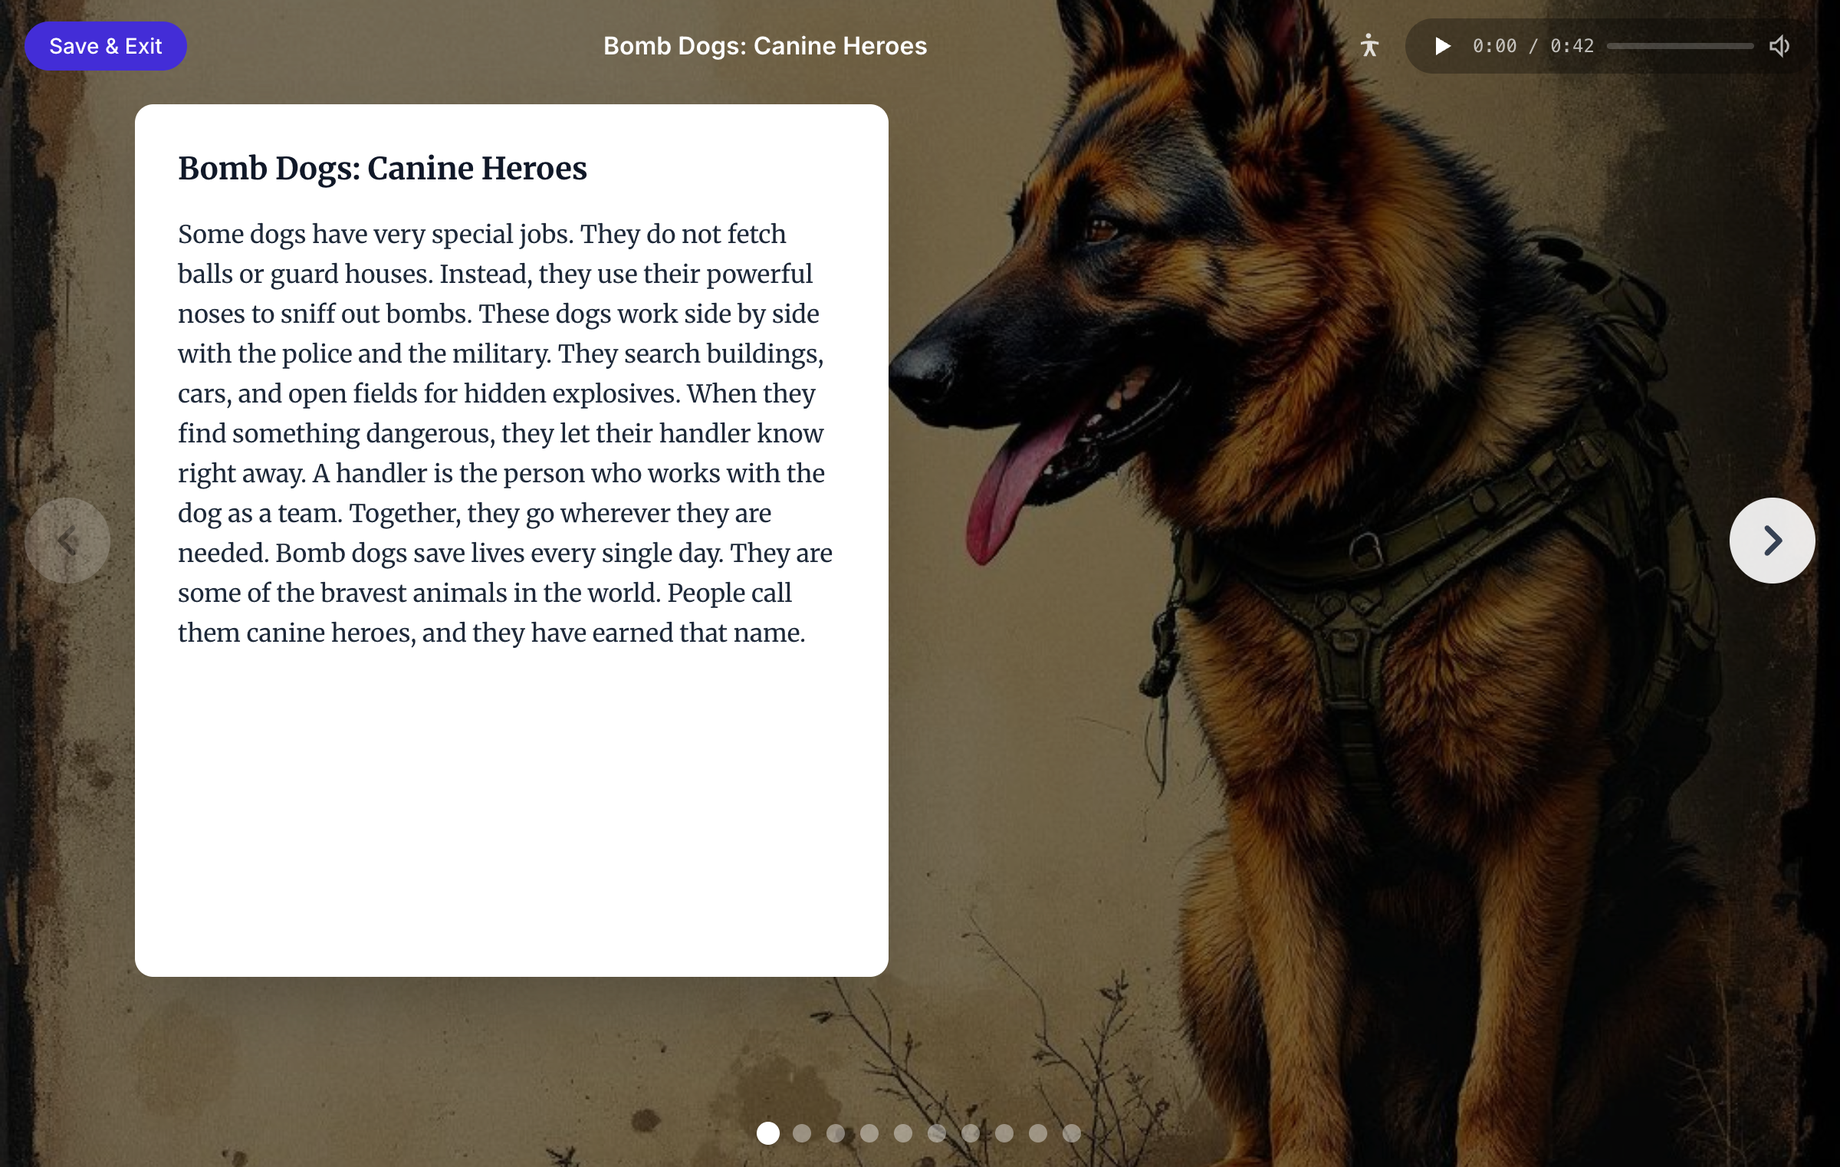
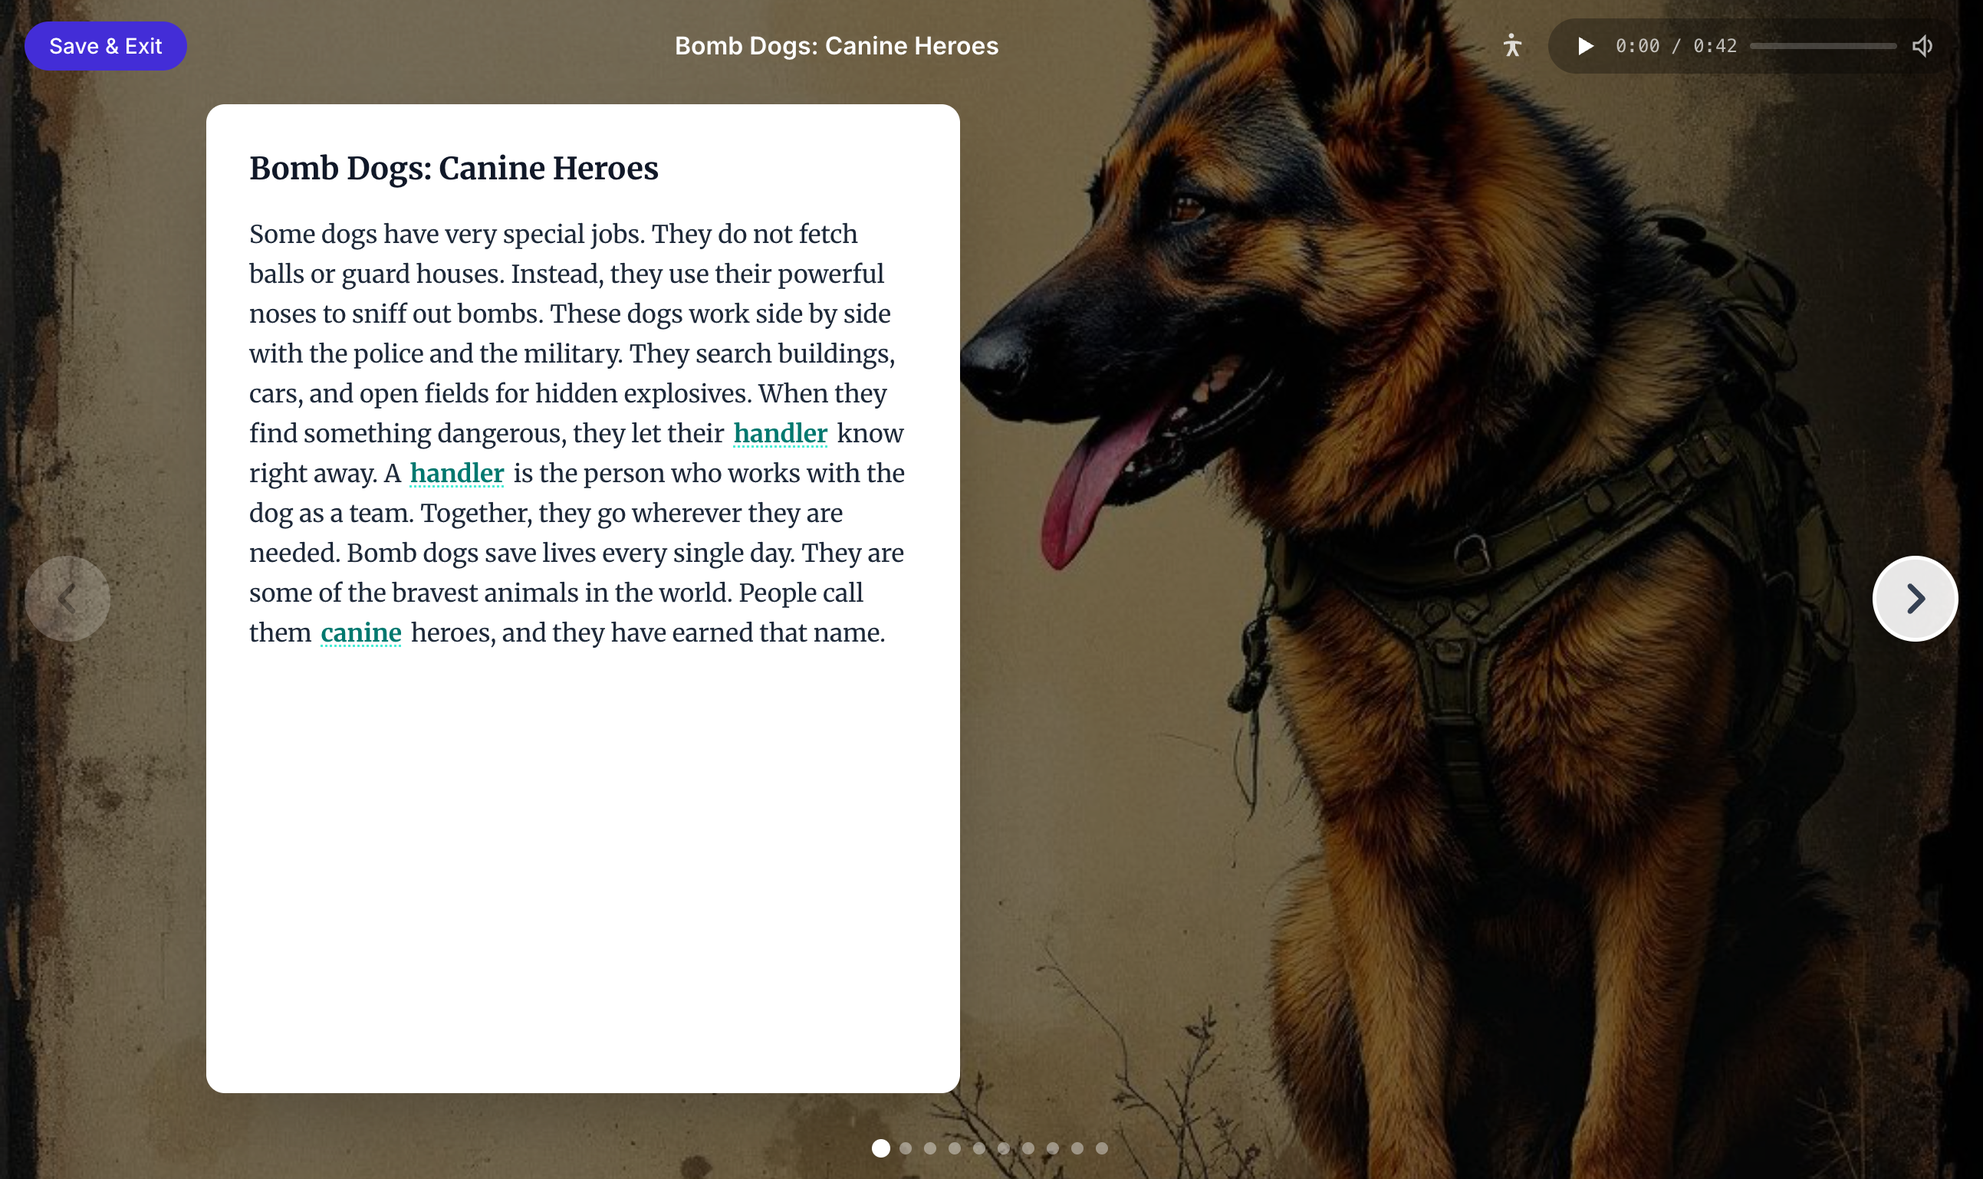
IR fidelity: freeze/unfreeze, visual alignment, feedback timing
P0 Assessment UX:
- Freeze/unfreeze slide progression: students can't skip past incomplete checkpoints
- Forward nav (arrows + dots) disabled past freeze point
- Feedback timing aligned to original: 5s loader on first wrong, 3s on final

P0 Highlight:
- Eraser tool added (39x39 square button with icon)
- Eraser mode only removes highlights, never adds
- Tool-based selection model (select color/eraser → apply)

P1 Visual alignment:
- Panel borders: 6px solid border-black/30 on both panels
- Right panel bg: #f7f9f9 (light gray matching original)
- Question header bar: #eeeeee with shadow separator
- Submit buttons: blue gradient matching original 3D style
- Highlight tools: 39x39 square color blocks (no text labels)
- Nav arrows: bg-black/30 with white border + shadow
- Pagination dots: 9x9px, black active, #666 inactive, green completed
- Save & Exit: blue gradient (green when all done)

Also adds comprehensive gap analysis document (docs/ir-gap-analysis.md)
and reference screenshots from original Savvas IR.

diff --git a/components/interactive/InteractiveShell.tsx b/components/interactive/InteractiveShell.tsx
@@ -85,6 +85,20 @@ export default function InteractiveShell({ passage, onExit }: Props) {
   );
   const allDone = allCheckpointIndices.length > 0 && allCheckpointIndices.every((i) => completedCheckpoints.has(i));
 
+  // Freeze/unfreeze: compute the furthest slide the student can navigate to.
+  // Students can navigate TO the first incomplete checkpoint but not past it.
+  // Backward navigation is always allowed. Forward is blocked past freeze point.
+  const freezePoint = useMemo(() => {
+    for (let i = 0; i < passage.slides.length; i++) {
+      const s = passage.slides[i];
+      const hasCheckpoint = s.type === "checkpoint" || s.checkpoint;
+      if (hasCheckpoint && !completedCheckpoints.has(i)) {
+        return i;
+      }
+    }
+    return passage.slides.length - 1;
+  }, [passage.slides, completedCheckpoints]);
+
   // For checkpoint slides with no text, gather text from preceding reading slides
   const getPrecedingText = useCallback(
     (index: number): string => {
@@ -104,11 +118,13 @@ export default function InteractiveShell({ passage, onExit }: Props) {
   const goToSlide = useCallback(
     (index: number) => {
       if (index < 0 || index >= totalSlides) return;
+      // Freeze: block forward navigation past the first incomplete checkpoint
+      if (index > freezePoint) return;
       setDirection(index > currentSlide ? 1 : -1);
       setShowCheckpoint(false);
       setCurrentSlide(index);
     },
-    [currentSlide, totalSlides]
+    [currentSlide, totalSlides, freezePoint]
   );
 
   const handleCheckpointComplete = useCallback(
@@ -217,10 +233,10 @@ export default function InteractiveShell({ passage, onExit }: Props) {
           <ChevronLeft />
         </button>
 
-        {/* Right arrow */}
+        {/* Right arrow — disabled when frozen or at end */}
         <button
           onClick={() => goToSlide(currentSlide + 1)}
-          disabled={currentSlide === totalSlides - 1}
+          disabled={currentSlide === totalSlides - 1 || currentSlide >= freezePoint}
           className="absolute right-1 sm:right-2 md:right-4 z-20 w-10 h-10 sm:w-12 sm:h-12 md:w-14 md:h-14 flex items-center justify-center rounded-full bg-black/30 text-white border-[2.5px] border-white shadow-[0_0_15px_rgba(0,0,0,0.3)] disabled:opacity-20 hover:bg-black/40 transition-colors"
         >
           <ChevronRight />
@@ -273,20 +289,24 @@ export default function InteractiveShell({ passage, onExit }: Props) {
         </AnimatePresence>
       </div>
 
-      {/* Dot navigation */}
+      {/* Dot navigation — frozen dots past freeze point are dimmed */}
       <div className="absolute bottom-4 left-0 right-0 z-10 flex justify-center gap-2">
         {passage.slides.map((s, i) => {
           const isCheckpoint = s.type === "checkpoint" || s.checkpoint;
           const isCompleted = isCheckpoint && completedCheckpoints.has(i);
+          const isFrozen = i > freezePoint;
           return (
             <button
               key={i}
               onClick={() => goToSlide(i)}
+              disabled={isFrozen}
               className={`w-[9px] h-[9px] rounded-full transition-all ${
                 i === currentSlide
                   ? "bg-black shadow-[0_3px_2px_0_rgba(0,0,0,0.3)]"
                   : isCompleted
                   ? "bg-green-400"
+                  : isFrozen
+                  ? "bg-[#444] opacity-30 cursor-not-allowed"
                   : "bg-[#666] hover:bg-[#888]"
               }`}
             />

diff --git a/components/interactive/HighlightCheckpoint.tsx b/components/interactive/HighlightCheckpoint.tsx
@@ -9,8 +9,9 @@ const HIGHLIGHT_FIRST_TRIAL_SCORE = 2.0;
 const HIGHLIGHT_SECOND_TRIAL_SCORE = 1.5;
 const MAX_ATTEMPTS = 2;
 
-// Timing delays from original ClassView
-const INCORRECT_DELAY_MS = 2000;
+// Timing delays from original ClassView source (assignments.js)
+// Highlight uses 5s loader on incorrect, 3s on final incorrect
+const INCORRECT_DELAY_MS = 5000;
 const INCORRECT_FINAL_DELAY_MS = 3000;
 
 // Highlight colors matching the reference app

diff --git a/components/interactive/CheckpointSlide.tsx b/components/interactive/CheckpointSlide.tsx
@@ -20,8 +20,9 @@ interface Props {
 const MAX_SCORE = 2.0;
 const MAX_ATTEMPTS = 2;
 
-// Timing delays from original ClassView
-const INCORRECT_DELAY_MS = 2000;
+// Timing delays from original ClassView source (assignments.js)
+// DnD uses 5s loader on incorrect, 3s on final incorrect
+const INCORRECT_DELAY_MS = 5000;
 const INCORRECT_FINAL_DELAY_MS = 3000;
 
 type DndState =

diff --git a/docs/ir-gap-analysis.md b/docs/ir-gap-analysis.md
@@ -1,0 +1,237 @@
+# Interactive Reader: Gap Analysis (Original vs. Replica)
+
+**Date:** 2026-03-01
+**Reference:** Savvas I-LIT ClassView (production.classviewapi.com)
+**Replica:** ilit.vercel.app
+
+---
+
+## Executive Summary
+
+The replica captures the core structure well — two-panel layout, slide navigation, checkpoint types, scoring logic. The biggest gaps are in **visual fidelity** (colors, borders, panel sizing), **assessment UX** (interaction feedback, timing, animations), and **missing features** (freeze/unfreeze progression, audio files, eraser tool).
+
+### Priority Tiers
+
+| Priority | Category | Count |
+|----------|----------|-------|
+| P0 - Critical | Assessment UX & logic | 6 |
+| P1 - High | Visual fidelity | 8 |
+| P2 - Medium | Features & polish | 5 |
+| P3 - Low | Nice-to-have | 4 |
+
+---
+
+## P0 — Critical: Assessment UX & Logic
+
+These affect correctness of the learning experience.
+
+### 1. Freeze/Unfreeze Slide Progression
+**Original:** Students cannot swipe past the current checkpoint until it's completed. A "freeze point" prevents skipping ahead. Previously completed slides can be revisited.
+**Replica:** All slides are freely navigable via dots and arrows. Students can skip every checkpoint and jump to the summary.
+**Impact:** Defeats the purpose of comprehension checks. Students can bypass all assessment.
+**Fix:** Track highest-unlocked slide index. Disable forward navigation (arrows + dots) past the freeze point. Unfreeze on checkpoint completion.
+
+### 2. Highlight Checkpoint: Missing Eraser Tool
+**Original:** Three tools — Yellow marker, Red marker, Eraser. Eraser lets students undo highlights by clicking highlighted text. Tools are 39x39px buttons with active/disabled states.
+**Replica:** Only Yellow and Red marker buttons. No eraser. Students can't undo a highlight except by re-clicking (toggle behavior, which differs from original).
+**Impact:** Missing core interaction. Original uses explicit eraser mode, not toggle.
+**Fix:** Add eraser button. When eraser is active, clicking a highlighted sentence removes the highlight. Match original tool button sizing (39x39px).
+
+### 3. Highlight: Selection Model (Click vs. Tap-to-select)
+**Original:** Each word/sentence is wrapped in `<span>` with sequential class. Tap to highlight with active color. Must select marker tool first. Eraser mode for removal.
+**Replica:** Sentence-level click toggles highlight. Color is applied from active highlighter. No explicit select-then-apply flow.
+**Impact:** Functional but different interaction model. Original is tool-based (select tool, then apply). Replica is direct-toggle.
+**Fix:** Align to tool-based model: select color tool → click sentence to apply → select eraser → click to remove.
+
+### 4. Drag-and-Drop: Actual Drag Interaction
+**Original:** jQuery UI Draggable/Droppable. Student physically drags word tiles from bank to drop zone. Clone helper, snap-back on invalid drop. Drag state: dark teal bg (#35484C), white text.
+**Replica:** Click-to-place model. Student clicks a word in the bank, it fills the drop zone. No actual dragging.
+**Impact:** Fundamentally different interaction. Original builds motor skills and spatial understanding. Click-to-place is simpler but not equivalent.
+**Fix:** Implement actual drag-and-drop with HTML5 Drag API or pointer events. Keep click-to-place as touch fallback. Show drag ghost with dark teal styling.
+
+### 5. Checkpoint Feedback: Timing & Overlay
+**Original:** On wrong answer: 5-second dark overlay loader, then retry prompt. On 2nd wrong: 3-second overlay, then reveal correct answer. Visual overlay prevents interaction during delay.
+**Replica:** Has delays (2000ms first wrong, 3000ms second wrong) with black/30 overlay. Close but timing differs (5s vs 2s for first wrong).
+**Impact:** Feedback pacing differs. Original gives more time for reflection.
+**Fix:** Align timings: 5000ms for first wrong, 3000ms for second wrong. Match overlay opacity.
+
+### 6. "Reading Checkpoint" Button Behavior
+**Original:** Button appears at bottom of left panel on reading slides. Clicking it: (1) hides the button, (2) animates right panel in (opacity 0→1, left -200px→0), (3) reveals the checkpoint interaction. Button uses blue gradient (`#1c8ed5` → `#025e97`).
+**Replica:** Button appears but is styled as indigo pill (`bg-indigo-700`). Click sets `showCheckpoint=true` which swaps the entire view to a CheckpointSlide component. No panel slide-in animation — it's a full slide replacement.
+**Impact:** Different mental model. Original keeps reading text visible on left while checkpoint slides in on right. Replica replaces the reading slide entirely with a checkpoint slide.
+**Fix:** On reading slides with attached checkpoints, keep the reading text visible and animate the checkpoint panel in from the right, overlapping or adjacent to the text panel. This is a significant architectural change.
+
+---
+
+## P1 — High: Visual Fidelity
+
+These are visually noticeable differences that affect perceived quality.
+
+### 7. Panel Borders
+**Original:** 6px solid `rgba(0,0,0,0.3)` border on both panels. Right panel has `border-radius: 0 12px 12px 0` (right side rounded only). Left panel is 12px all corners.
+**Replica:** No visible borders on panels. Uses `shadow-2xl` and `rounded-xl` for depth. Looks modern but doesn't match original's card-with-border feel.
+**Fix:** Add 6px solid semi-transparent dark border to both panels. Match border-radius values.
+
+### 8. Panel Background Colors
+**Original:** Left panel: white `#fff`. Right panel: light gray `#f7f9f9`.
+**Replica:** Both panels appear white. Right panel has slight gray in some states but not consistently.
+**Fix:** Set right panel background to `#f7f9f9`.
+
+### 9. Panel Dimensions
+**Original:** Left: 550×515px. Right: 400×462px. Container: 1000px centered. Right panel has -12px left margin (overlaps left border).
+**Replica:** Responsive with `md:max-w-[48%]`. Panels are sized by content/flex, not fixed dimensions.
+**Impact:** Different proportions. Original has specific pixel sizing.
+**Fix:** For desktop, use fixed widths closer to original (550px left, 400px right) with responsive fallback for smaller screens.
+
+### 10. Top Bar / Header
+**Original:** Dark semi-transparent bar (~52px). "Save & Exit" as dark pill button on left. Title centered. Accessibility icon + audio player on right. Audio has HTML5 `<audio>` element with scrubber, time display, volume.
+**Replica:** Similar layout but uses indigo/teal colors instead of dark. Audio uses browser SpeechSynthesis (TTS) instead of real audio files. Time display shows estimated TTS duration.
+**Impact:** TTS sounds robotic vs. real recorded audio. Visual styling differs.
+**Fix:**
+- Style: Match dark semi-transparent header bar
+- Audio: Would need actual audio files (not available from CDN). TTS is acceptable fallback but should be noted.
+
+### 11. Navigation Arrows
+**Original:** White circles with border: `2.5px solid #fff`, `box-shadow: 0 0 15px #000`, `background: rgba(0,0,0,0.3)`, 45×45px. Dimmed state: `opacity: 0.5`.
+**Replica:** White/90 background, shadow, slightly different sizing. Look similar but not matching.
+**Fix:** Match exact CSS: border 2.5px white, box-shadow 15px black spread, rgba(0,0,0,0.3) background, 45px diameter.
+
+### 12. Pagination Dots
+**Original:** Small circles (9×9px), dark bg. Active: black with shadow. Inactive: gray #666. Border-radius 10px.
+**Replica:** Larger dots with different colors: white (current, scale 150%), green (completed), white/40 (unviewed).
+**Impact:** Different visual language. Our green-for-completed is arguably better UX but doesn't match original.
+**Fix:** Align dot sizing and colors. Keep green-for-completed as an enhancement.
+
+### 13. Button Styling (Blue Gradient)
+**Original:** 3D gradient button: `linear-gradient(to bottom, #1c8ed5 0%, #79bde6 3%, #1c8ed5 5%, #1c8ed5 95%, #025e97 100%)` with inset shadows. Green variant for complete: `#48c05d → #007b14`. Gray for disabled.
+**Replica:** Flat `bg-indigo-700` pills. Modern but doesn't match skeuomorphic original.
+**Fix:** Create shared button component with 3D gradient matching original. Apply to "Reading Checkpoint", "Save and Continue", "Submit Summary", "Get Feedback" buttons.
+
+### 14. Highlight Tool Colors
+**Original:** Yellow: `#f4df76`. Red: `#f47676`. Applied to text: yellow `#ffff33`, red `#f5a9a9`. Tool buttons: 39×39px squares.
+**Replica:** Yellow: `#f4df76` (matches). Red: `#f47676` (matches). Tool button styling differs (rounded with labels vs. square color blocks).
+**Fix:** Match tool button appearance — 39×39px square color blocks without text labels, with active border state.
+
+---
+
+## P2 — Medium: Features & Polish
+
+### 15. Slide Transition Animation
+**Original:** Custom Swipe.js parallax engine. 1200ms transition. Horizontal slide with parallax depth effect on background images.
+**Replica:** 3D slit rotate effect (rotateY 90°/-90°) with 1.2s duration. Perspective-based 3D flip.
+**Impact:** Different visual feel. Replica's 3D flip is more dramatic. Original is horizontal parallax slide.
+**Fix:** Consider switching to horizontal slide transition to match original. The 3D flip is flashy but not faithful.
+
+### 16. Background Images Per Slide
+**Original:** Each slide can have a different background image. Images are topic-relevant photography (dogs, military, training scenes). Full-bleed with textured overlay.
+**Replica:** Uses a passage-level background image with per-slide brightness filter. Our bg images are AI-generated.
+**Impact:** Visual quality differs. Original has curated stock photography per slide.
+**Fix:** Accept AI-generated images as our content is different. Ensure per-slide bg switching works.
+
+### 17. Summary: PKT API Feedback vs. Local Algorithm
+**Original:** Submits to PKT API for automated scoring. Returns 13-segment color bar (red→green), sub-scores for redundancy, irrelevancy, copying, spelling.
+**Replica:** Local keyword-matching algorithm. Checks for key concepts (substring match). Three-tier feedback (great/good/needs more).
+**Impact:** Our feedback is much simpler. Original's API-based scoring is more sophisticated.
+**Fix:** Our local algorithm is acceptable for the scope. Could enhance with more NLP-like checking later.
+
+### 18. Summary: Email & Print Buttons
+**Original:** Has email-to-self and print buttons for the summary.
+**Replica:** Missing both.
+**Fix:** Low priority but could add print button (window.print for summary panel).
+
+### 19. State Persistence Across Sessions
+**Original:** Full state restoration — visited slides, attempt data, highlight selections, text answers all restored on re-entry. 30-second auto-save.
+**Replica:** Checkpoint scores and completion status persisted in localStorage. But no mid-passage state restoration — re-entering resets to slide 1 with no prior selections.
+**Fix:** Save current slide index and per-slide interaction state to localStorage. Restore on re-entry.
+
+---
+
+## P3 — Low: Nice-to-Have
+
+### 20. Audio Files vs. TTS
+**Original:** Pre-recorded audio per slide with precise durations (e.g., 0:25, 0:37). HTML5 audio player with scrubber and volume.
+**Replica:** Browser SpeechSynthesis at 0.9x rate. Calculated duration from word count (150 wpm). Custom progress bar.
+**Fix:** TTS is a reasonable approximation. Real audio not available. Acceptable gap.
+
+### 21. Accessibility: Screen Reader Announcements
+**Original:** `readThis()` function announces actions: "Yellow highlighter selected", "Text highlighted", "Correct Answer", etc.
+**Replica:** ARIA alert region exists but not used for interaction announcements.
+**Fix:** Add live region announcements for tool selection, highlight application, answer feedback.
+
+### 22. Right Panel: Question Header Bar
+**Original:** `.edit_box_title` — light gray `#eeeeee` background, centered text, box-shadow separator.
+**Replica:** Text heading without distinct header bar styling.
+**Fix:** Add gray header bar with shadow to right panel.
+
+### 23. Keyboard Navigation
+**Original:** TAB between elements, CTRL+arrows for DnD, Enter/Space to activate. Full keyboard support.
+**Replica:** Basic keyboard support (Enter/Space on buttons). No CTRL+arrow DnD keyboard control.
+**Fix:** Add keyboard handlers for DnD and highlight interactions.
+
+---
+
+## What We Do BETTER Than Original
+
+1. **Vocabulary popups** — Our tap-to-define with word parts breakdown, example sentences, and "Add to Word Bank" is richer than the original's basic dictionary.
+2. **Summary feedback** — Immediate local feedback loop (no API delay). Key concepts listed upfront.
+3. **Score display** — Real-time score in top bar during passage. Original shows scores only after completion.
+4. **Mobile responsiveness** — Our layout adapts to mobile. Original is fixed-width desktop.
+5. **Modern animations** — Framer Motion provides smoother, more polished micro-interactions.
+6. **Green completion dots** — Our pagination dots show completed checkpoints in green. Better UX than original's plain dots.
+
+---
+
+## Implementation Difficulty Ranking
+
+| Gap | Difficulty | Estimate |
+|-----|-----------|----------|
+| #1 Freeze/unfreeze | Medium | 2-3 hours |
+| #2 Eraser tool | Easy | 30 min |
+| #3 Highlight selection model | Medium | 1-2 hours |
+| #4 Actual drag-and-drop | Hard | 3-4 hours |
+| #5 Feedback timing | Easy | 15 min |
+| #6 Reading checkpoint → panel slide-in | Hard | 3-4 hours (architectural) |
+| #7 Panel borders | Easy | 15 min |
+| #8 Panel backgrounds | Easy | 5 min |
+| #9 Panel dimensions | Medium | 1 hour |
+| #10 Header styling | Medium | 1 hour |
+| #11 Nav arrows | Easy | 30 min |
+| #12 Pagination dots | Easy | 30 min |
+| #13 Button gradients | Medium | 1 hour |
+| #14 Highlight tool colors | Easy | 30 min |
+| #15 Slide transitions | Medium | 1-2 hours |
+| #16 Per-slide backgrounds | Already works | — |
+| #17 Summary PKT API | N/A (out of scope) | — |
+| #18 Email/print | Easy | 30 min |
+| #19 State persistence | Medium | 2-3 hours |
+| #20 Audio files | N/A | — |
+| #21 A11y announcements | Easy | 1 hour |
+| #22 Question header bar | Easy | 15 min |
+| #23 Keyboard nav | Medium | 2 hours |
+
+---
+
+## Recommended Implementation Order
+
+### Phase 1: Assessment Logic (P0)
+1. Freeze/unfreeze progression (#1)
+2. Feedback timing alignment (#5)
+3. Reading checkpoint panel slide-in (#6) — or simplified: keep as slide swap but add animation
+4. Highlight eraser tool (#2)
+5. Highlight selection model alignment (#3)
+
+### Phase 2: Visual Alignment (P1)
+6. Panel borders and backgrounds (#7, #8)
+7. Panel dimensions (#9)
+8. Button gradient styling (#13)
+9. Header styling (#10)
+10. Navigation arrows (#11)
+11. Pagination dots (#12)
+12. Highlight tool styling (#14)
+
+### Phase 3: Features & Polish (P2-P3)
+13. Slide transition change (#15)
+14. State persistence (#19)
+15. A11y announcements (#21)
+16. Question header bar (#22)
+17. Keyboard navigation (#23)
